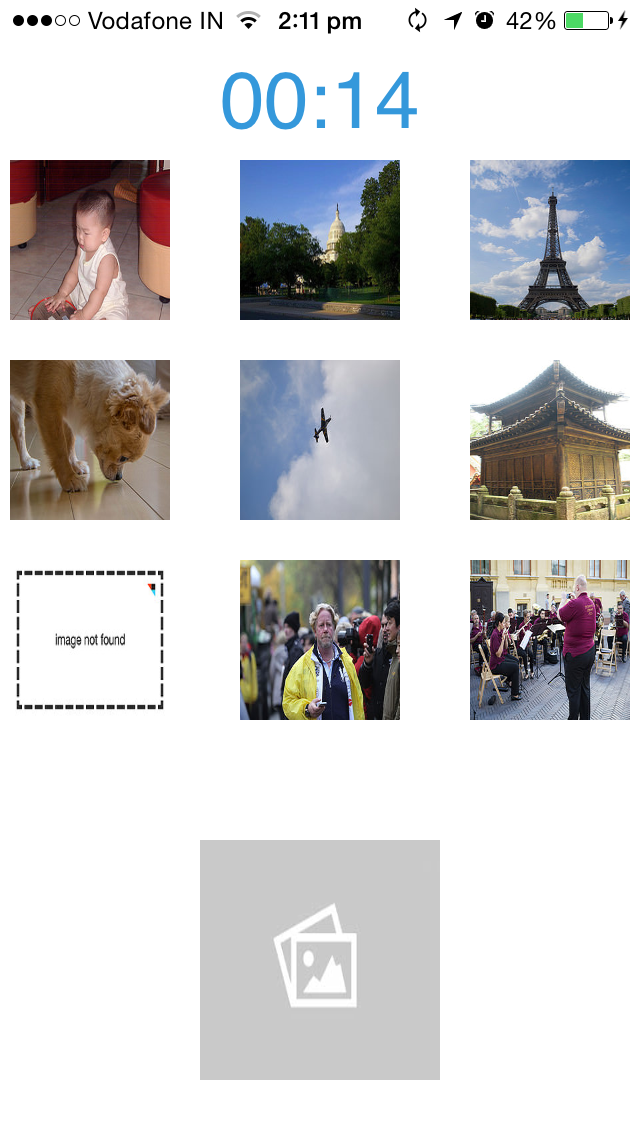
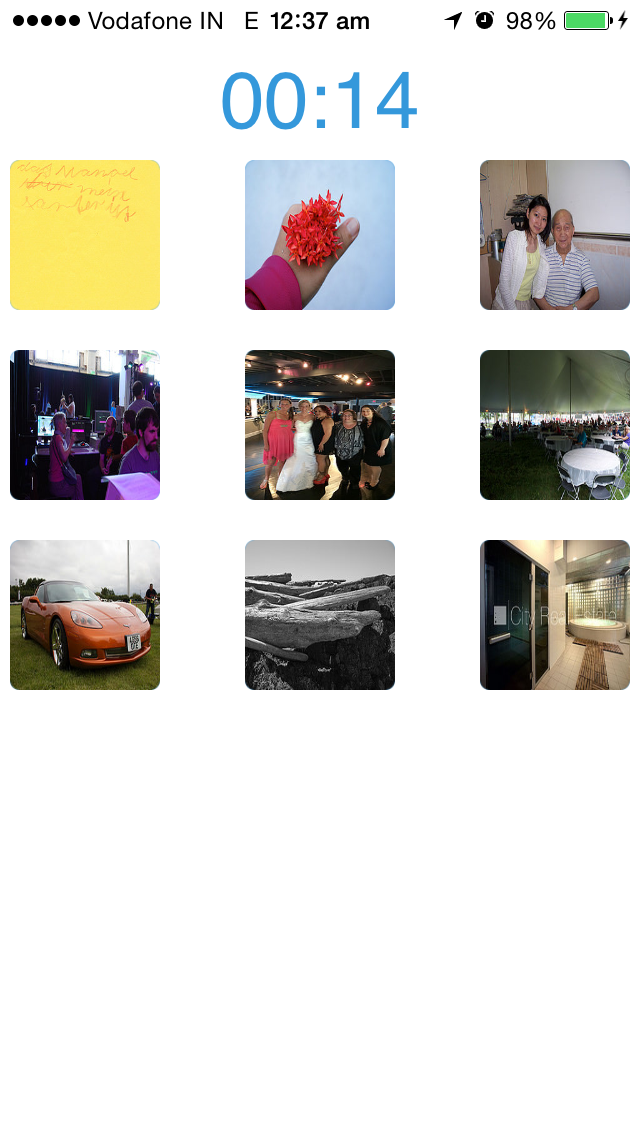
Updated screenshots

diff --git a/MemoryGame/GameViewController.m b/MemoryGame/GameViewController.m
@@ -22,6 +22,7 @@
     int imagesToBePlaced;
     int randomNum;
     int score;
+    int imagesLoaded;
     //CGRect randomImageActualframe;
     
 }
@@ -87,6 +88,7 @@
 
 -(void) setInitialParams {
     
+    imagesLoaded = 0;
     score = 0;
     seconds = 15;
     imagesToBePlaced = 9;
@@ -248,6 +250,7 @@
     
     randomImage  = [[UIImageView alloc] initWithFrame:CGRectMake(100, 420, 120, 120)];
     //randomImage.image= [UIImage imageNamed:@"download.jpeg"];
+    randomImage.layer.masksToBounds=YES;
     [self.view addSubview:randomImage];
     
     
@@ -316,9 +319,10 @@
                           placeholderImage:nil
                                  completed:^(UIImage *image, NSError *error, SDImageCacheType cacheType, NSURL *imageUrl) {
                                      
+                                     imagesLoaded++;
                                      [cell.loader stopAnimating];
                                      
-                                     if(arrayIndex == [photosArray count]-1)
+                                     if(imagesLoaded == [photosArray count])
                                      {
                                          [self addTimerLabel];
                                      }
@@ -442,18 +446,15 @@
         {
             
             
-            if(i<9) {
-                
+            if(i>8) {
+                break;
+            }
+            
                 PhotoData * photobj = [[PhotoData alloc] initWithJSON:photoJSON];
                 
                 [photosArray addObject:photobj];
                 
                 i++;
-            }
-            else {
-                
-                break;
-            }
             
         }
         

diff --git a/MemoryGame/photoCollectionCell.m b/MemoryGame/photoCollectionCell.m
@@ -19,12 +19,13 @@
     if (self) {
         // Initialization code
         
-        loader = [[UIActivityIndicatorView alloc] initWithFrame:CGRectMake(35,35, 10, 10)];
+        loader = [[UIActivityIndicatorView alloc] initWithFrame:CGRectMake(32,35, 10, 10)];
         loader.activityIndicatorViewStyle=UIActivityIndicatorViewStyleGray;
         [loader startAnimating];
         photoView = [[UIImageView alloc] initWithFrame:CGRectMake(0, 0, frame.size.width, frame.size.height)];
         [photoView.layer setCornerRadius:5.f];
         [self.layer setCornerRadius:5.f];
+        photoView.layer.masksToBounds=YES;
         self.backgroundColor=THEME_COLOR;
         self.alpha=0.2;
         [self addSubview:photoView];

diff --git a/MemoryGame/GameLoaderView.m b/MemoryGame/GameLoaderView.m
@@ -60,17 +60,6 @@
 }
 
 
-//-(void) addReloadButton {
-//    
-//}
-//
-//-(void) addActivityIndicator {
-//    
-//}
-//
-//-(void) addIllFormedLabel {
-//    
-//}
 
 /*
 // Only override drawRect: if you perform custom drawing.
